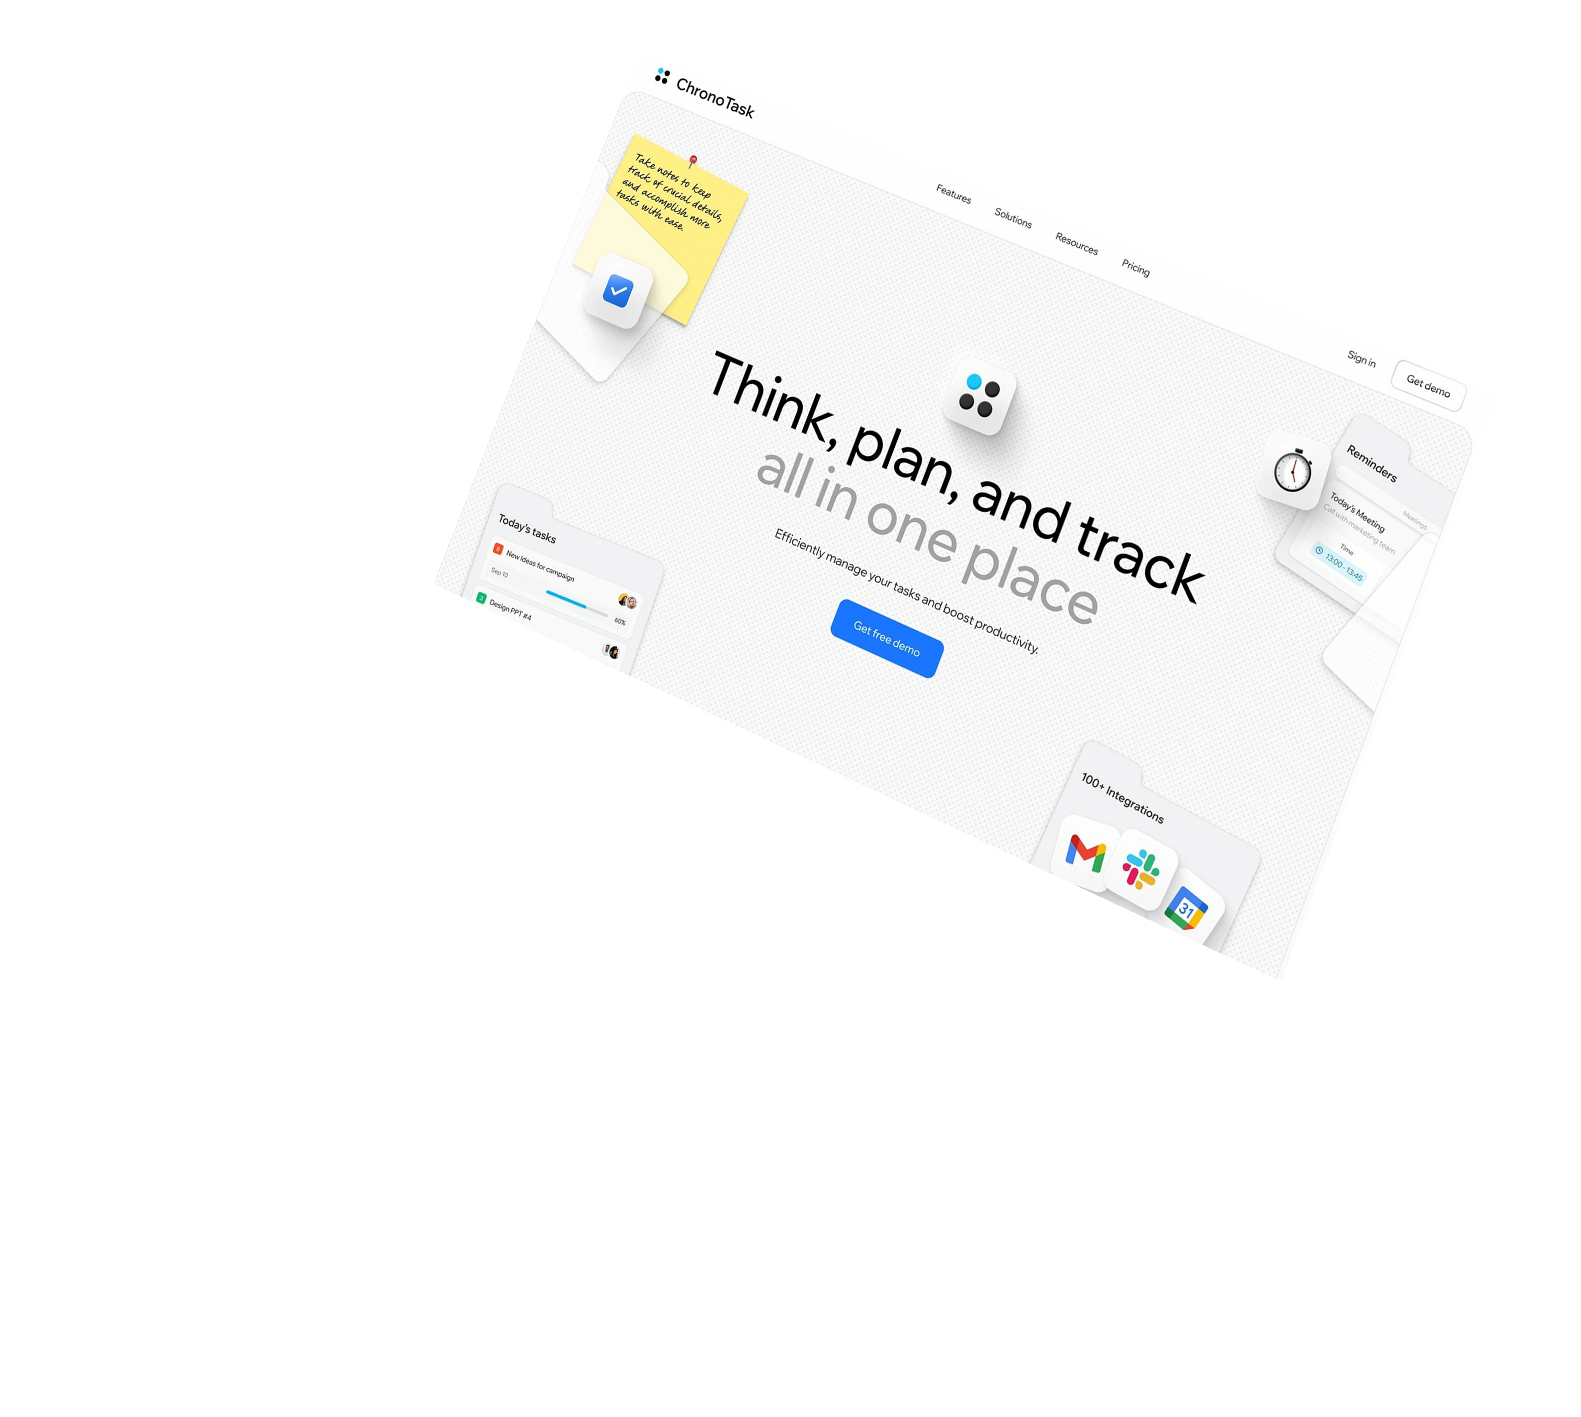
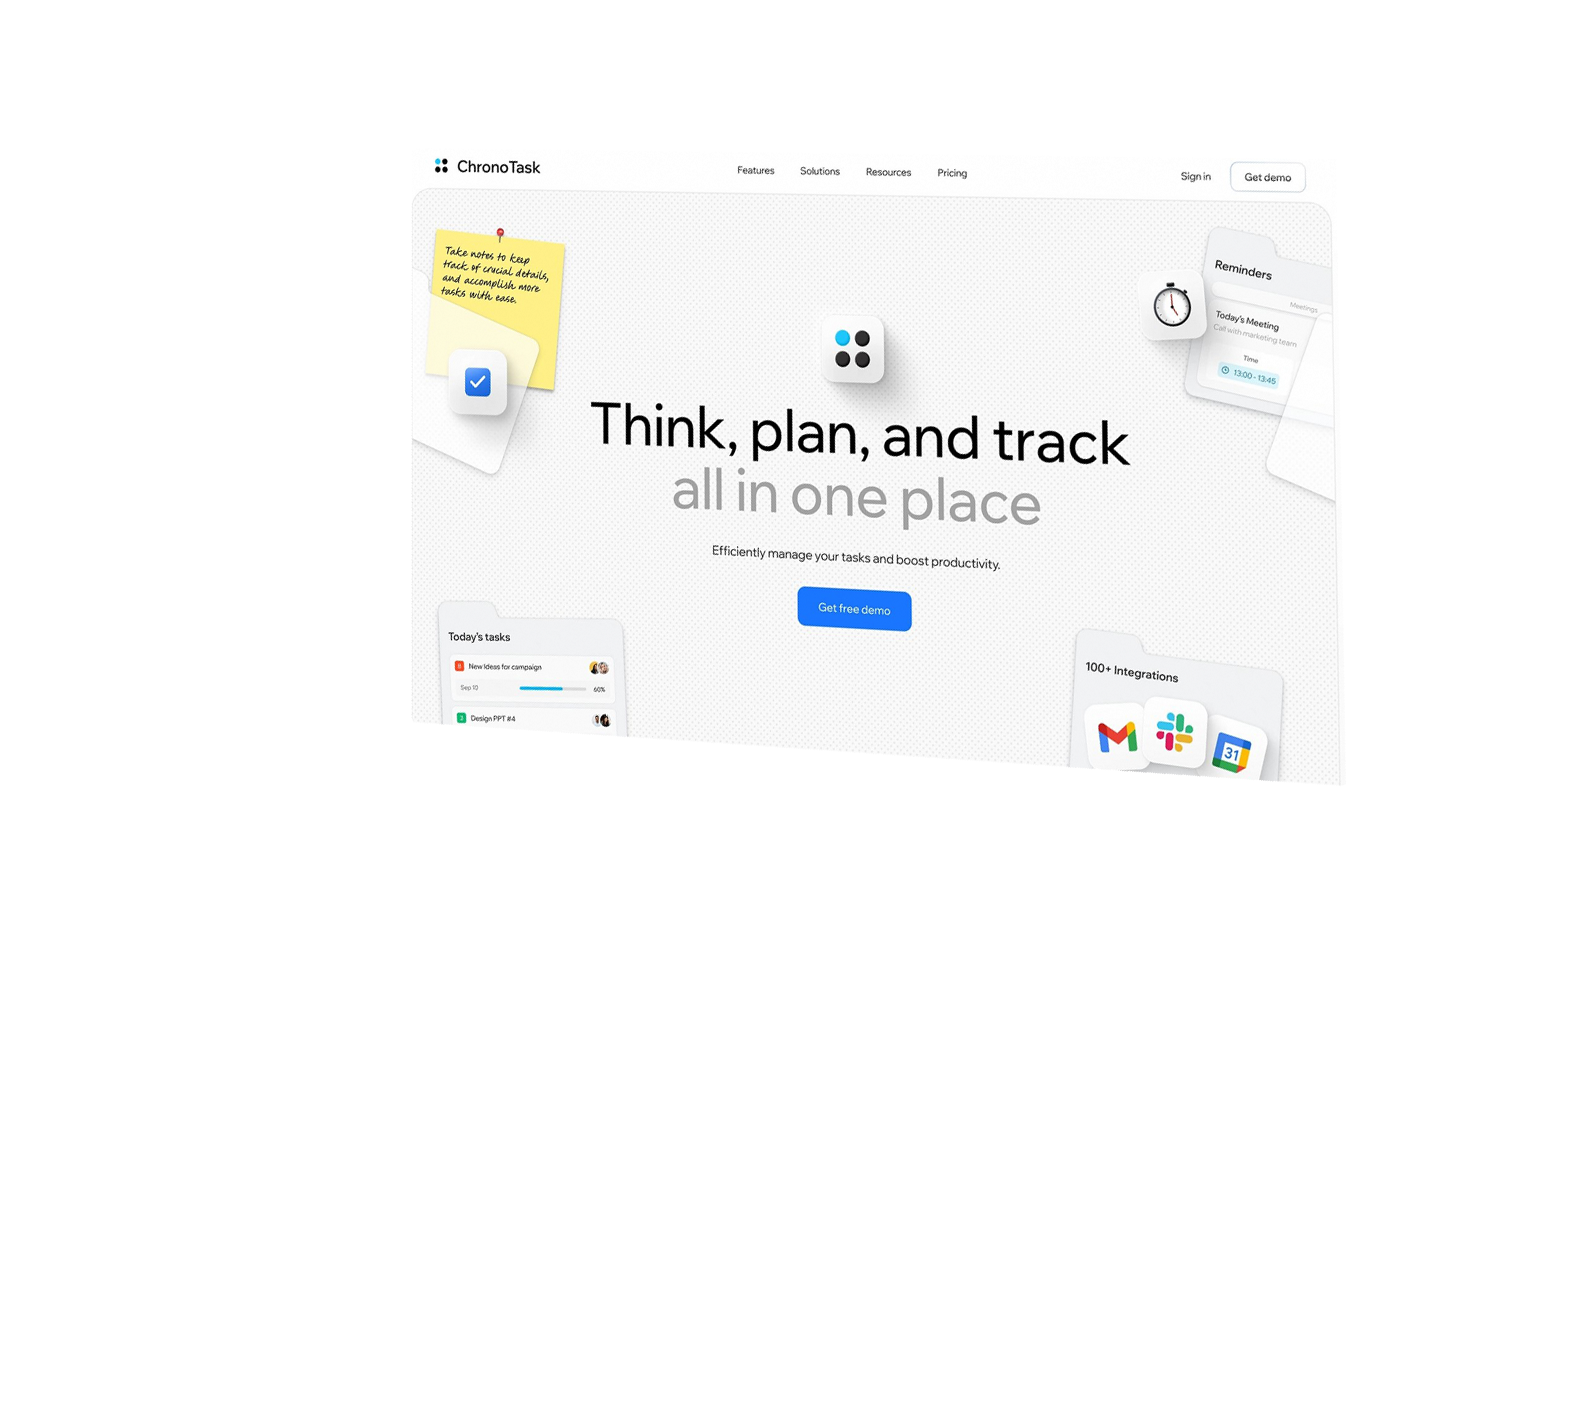
img fix

diff --git a/app/landingPage/page.tsx b/app/landingPage/page.tsx
@@ -20,7 +20,7 @@ export default function LandingPage() {
             <h1 className="font-[ClashGrotesk] text-[50px] font-[500] leading-[1.2em] text-[center]">YOUR SERVERS</h1>
 
             <div className="relative h-[fit-content] w-[100%] max-w-[500px] mx-[15px] overflow-x-[hidden] flex flex-col">
-                <Image src="/hero/smolpad.png" height={200} width={200} alt="" unoptimized className="h-[100%] w-[100%] object-contain rotate-[-21deg]" />
+                <Image src="/hero/smolpad.png" height={200} width={200} alt="" unoptimized className="h-[100%] w-[100%] object-contain" />
 
                 <Image src="/hero/screen1.png" height={200} width={200} className={styles.heroScreen1} alt="" unoptimized />
 

diff --git a/app/landingPage/root.module.css b/app/landingPage/root.module.css
@@ -6,7 +6,7 @@
     width: 100%;
     position: absolute;
     object-fit: contain;
-    transform: rotate(-21deg);
+    /* transform: rotate(-21deg); */
     transition: all 0.3s;
     animation: ripple 3s infinite;
 }
@@ -37,21 +37,21 @@
 
 @keyframes ripple {
     0% {
-        transform: rotate(-21deg) translateY(0px);
+        transform: translateY(0px);
     }
 
     10% {
-        transform: rotate(-21deg) translateY(-10px);
+        transform: translateY(-10px);
 
     }
 
     20% {
-        transform: rotate(-21deg) translateY(0px);
+        transform: translateY(0px);
 
     }
 
     100% {
-        transform: rotate(-21deg) translateY(0px);
+        transform: translateY(0px);
     }
 }
 
